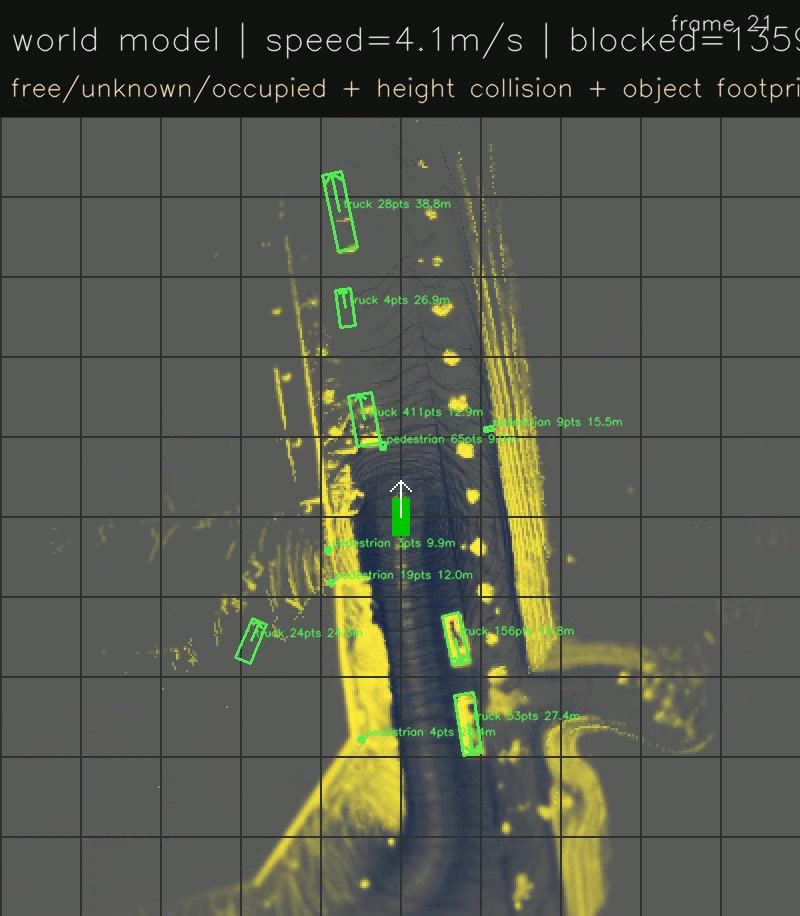
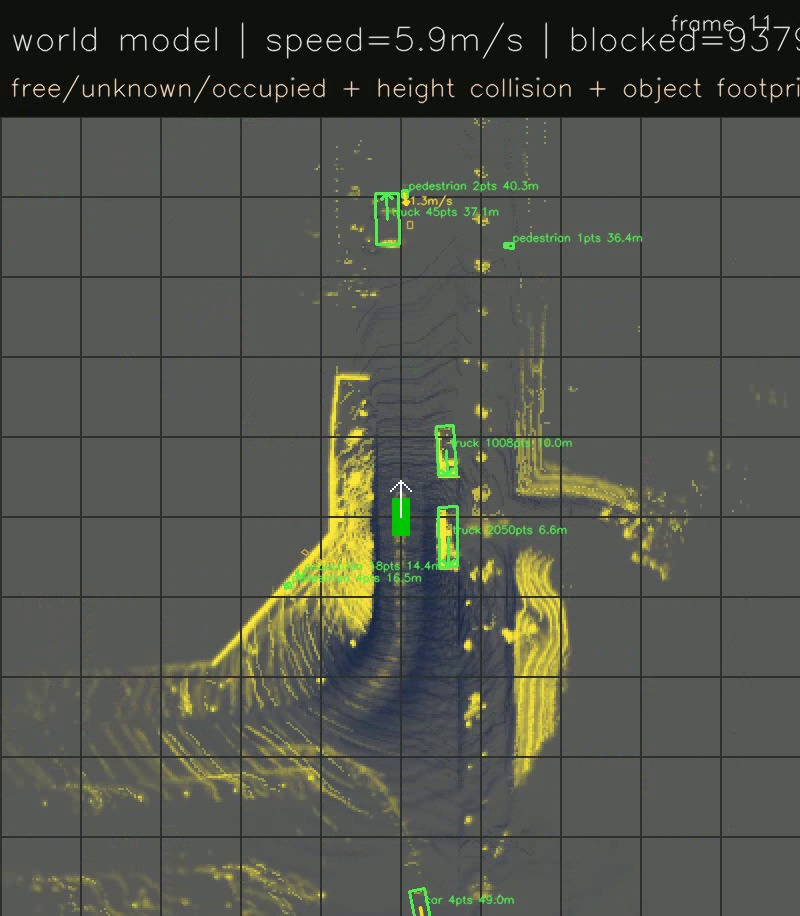
feat: GT-oracle object velocity + short-horizon prediction in world model

diff --git a/fsd/world_model.py b/fsd/world_model.py
@@ -10,8 +10,15 @@ from fsd.data import LidarFrame, SurroundFrame
 from fsd.motion_planning.ego_motion import estimate_ego_state
 from fsd.motion_planning.occupancy import build_collision_grid
 from fsd.motion_planning.state import EgoState
-from fsd.object_detection import Box3D, NuScenesAnnotationLoader, PredictionLoader, draw_boxes_on_bev
+from fsd.object_detection import (
+    Box3D,
+    NuScenesAnnotationLoader,
+    PredictionLoader,
+    draw_boxes_on_bev,
+    ego_xy_to_bev_pixels,
+)
 from fsd.occupancy import TemporalOccupancyMapper, render_occupancy_bev
+from fsd.tracking import GtVelocityTracker, TrackedObject
 
 
 @dataclass(frozen=True)
@@ -19,6 +26,10 @@ class WorldObject:
     box: Box3D
     distance_m: float
     footprint_ego: np.ndarray
+    track_id: str = ""
+    velocity_ego: np.ndarray | None = None
+    speed_mps: float = 0.0
+    future_xy_ego: np.ndarray | None = None
 
 
 @dataclass(frozen=True)
@@ -61,11 +72,13 @@ class WorldModelBuilder:
             y_range=self.config.y_range,
             resolution=self.config.resolution,
         )
+        self.gt_tracker = GtVelocityTracker()
         self._previous_pose = None
         self._previous_timestamp_us = None
 
     def reset(self) -> None:
         self.mapper.reset()
+        self.gt_tracker.reset()
         self._previous_pose = None
         self._previous_timestamp_us = None
 
@@ -98,6 +111,7 @@ class WorldModelBuilder:
         gt_boxes = []
         if self.annotation_loader is not None:
             gt_boxes = self.annotation_loader.boxes_for_frame(frame, self.config.min_lidar_points)
+        gt_tracked = self.gt_tracker.update(frame, gt_boxes)
         pred_boxes = []
         if self.prediction_loader is not None:
             pred_boxes = self.prediction_loader.boxes_for_frame(frame, self.config.score_threshold)
@@ -108,7 +122,7 @@ class WorldModelBuilder:
             occupancy_probability=occupancy,
             height_tensor=tensor,
             collision_grid=collision.blocked,
-            gt_objects=[_world_object(box) for box in gt_boxes],
+            gt_objects=[_tracked_world_object(t) for t in gt_tracked],
             pred_objects=[_world_object(box) for box in pred_boxes],
             x_range=self.config.x_range,
             y_range=self.config.y_range,
@@ -122,6 +136,51 @@ def _world_object(box: Box3D) -> WorldObject:
         distance_m=float(np.linalg.norm(box.center_ego[:2])),
         footprint_ego=box.corners_ego[:, :2].copy(),
     )
+
+
+def _tracked_world_object(tracked: TrackedObject) -> WorldObject:
+    box = tracked.box
+    return WorldObject(
+        box=box,
+        distance_m=float(np.linalg.norm(box.center_ego[:2])),
+        footprint_ego=box.corners_ego[:, :2].copy(),
+        track_id=tracked.track_id,
+        velocity_ego=tracked.velocity_ego,
+        speed_mps=tracked.speed_mps,
+        future_xy_ego=tracked.future_xy_ego,
+    )
+
+
+def _draw_object_motion(
+    image: np.ndarray,
+    objects: list[WorldObject],
+    x_range: tuple[float, float],
+    y_range: tuple[float, float],
+    resolution: float,
+    scale: int,
+    min_speed_mps: float = 0.5,
+) -> int:
+    """Overlay velocity arrows and a faded future ghost footprint. Returns moving count."""
+    moving = 0
+    for obj in objects:
+        if obj.velocity_ego is None or obj.speed_mps < min_speed_mps:
+            continue
+        moving += 1
+        center_xy = obj.box.center_ego[:2]
+        tip_xy = center_xy + obj.velocity_ego  # 1 s lookahead: arrow length == speed in metres
+        arrow = ego_xy_to_bev_pixels(
+            np.stack([center_xy, tip_xy]), x_range, y_range, resolution, scale=scale
+        )
+        cv2.arrowedLine(image, tuple(arrow[0]), tuple(arrow[1]), (40, 220, 255), 2, tipLength=0.3, line_type=cv2.LINE_AA)
+
+        if obj.future_xy_ego is not None and len(obj.future_xy_ego):
+            ghost = obj.footprint_ego + (obj.future_xy_ego[-1] - center_xy)
+            gp = ego_xy_to_bev_pixels(ghost, x_range, y_range, resolution, scale=scale)
+            cv2.polylines(image, [gp.reshape((-1, 1, 2))], True, (60, 180, 230), 1, cv2.LINE_AA)
+
+        label = f"{obj.speed_mps:.1f}m/s"
+        cv2.putText(image, label, (int(arrow[1][0]) + 3, int(arrow[1][1])), cv2.FONT_HERSHEY_SIMPLEX, 0.36, (40, 220, 255), 1, cv2.LINE_AA)
+    return moving
 
 
 def render_world_model_bev(model: BevWorldModel, scale: int = 2) -> np.ndarray:
@@ -154,10 +213,18 @@ def render_world_model_bev(model: BevWorldModel, scale: int = 2) -> np.ndarray:
         title="Pred objects",
         label_scores=True,
     )
+    moving = _draw_object_motion(
+        image,
+        model.gt_objects,
+        x_range=model.x_range,
+        y_range=model.y_range,
+        resolution=model.resolution,
+        scale=scale,
+    )
     blocked = int(model.collision_grid.sum())
     text = (
         f"world model | speed={model.ego.speed_mps:.1f}m/s | "
-        f"blocked={blocked} | gt={len(model.gt_objects)} | pred={len(model.pred_objects)}"
+        f"blocked={blocked} | gt={len(model.gt_objects)} | moving={moving} | pred={len(model.pred_objects)}"
     )
     cv2.rectangle(image, (0, 0), (image.shape[1], 58 * scale), (18, 18, 18), -1)
     cv2.putText(image, text, (10, 25 * scale), cv2.FONT_HERSHEY_SIMPLEX, 0.55 * scale, (245, 245, 245), 1, cv2.LINE_AA)

diff --git a/fsd/tracking.py b/fsd/tracking.py
@@ -1,0 +1,83 @@
+"""Ground-truth object velocity and short-horizon prediction from nuScenes instance tokens.
+
+GT-first oracle: matching objects across keyframes is free because every annotation
+carries a stable ``instance_token``, so velocity is just a finite difference of the
+same object's global position. Velocity is computed in the global frame (true ground
+motion) and rotated into the current ego frame; future positions are a constant-velocity
+extrapolation. This is the baseline a learned tracker is later validated against.
+"""
+
+from __future__ import annotations
+
+from dataclasses import dataclass
+
+import numpy as np
+
+from fsd.data import SurroundFrame
+from fsd.lidar_projection import quaternion_to_rotation_matrix, transform_points
+from fsd.object_detection import Box3D
+
+
+@dataclass(frozen=True)
+class TrackedObject:
+    box: Box3D
+    track_id: str
+    velocity_ego: np.ndarray   # (vx, vy) m/s, current ego frame
+    speed_mps: float
+    future_xy_ego: np.ndarray  # (K, 2) constant-velocity predicted centers, current ego frame
+
+
+class GtVelocityTracker:
+    """Finite-difference velocity over stable instance tokens, with constant-velocity prediction."""
+
+    def __init__(self, horizons_s: tuple[float, ...] = (1.0, 2.0, 3.0), min_speed_mps: float = 0.5):
+        self.horizons_s = horizons_s
+        self.min_speed_mps = min_speed_mps
+        self._prev: dict[str, tuple[np.ndarray, int]] = {}
+
+    def reset(self) -> None:
+        self._prev.clear()
+
+    def update(self, frame: SurroundFrame, boxes: list[Box3D]) -> list[TrackedObject]:
+        ego_pose = frame.ego_pose
+        rot_ego = quaternion_to_rotation_matrix(ego_pose["rotation"])[:2, :2]
+        ts = frame.timestamp_us
+
+        tracked: list[TrackedObject] = []
+        current: dict[str, tuple[np.ndarray, int]] = {}
+        for box in boxes:
+            token = box.instance_token
+            # Recover the object's global xy (exact inverse of how center_ego was built).
+            global_xy = transform_points(
+                box.center_ego.reshape(1, 3), ego_pose["rotation"], ego_pose["translation"]
+            )[0, :2]
+            if token:
+                current[token] = (global_xy, ts)
+
+            v_ego = np.zeros(2)
+            speed = 0.0
+            prev = self._prev.get(token) if token else None
+            if prev is not None:
+                prev_xy, prev_ts = prev
+                dt = (ts - prev_ts) / 1_000_000.0
+                if dt > 0.0:
+                    v_ego = rot_ego.T @ ((global_xy - prev_xy) / dt)
+                    speed = float(np.hypot(v_ego[0], v_ego[1]))
+
+            if speed >= self.min_speed_mps:
+                future = np.stack([box.center_ego[:2] + v_ego * h for h in self.horizons_s])
+            else:
+                future = np.empty((0, 2))
+
+            tracked.append(
+                TrackedObject(
+                    box=box,
+                    track_id=token,
+                    velocity_ego=v_ego,
+                    speed_mps=speed,
+                    future_xy_ego=future,
+                )
+            )
+
+        self._prev = current
+        return tracked

diff --git a/tests/test_tracking.py b/tests/test_tracking.py
@@ -1,0 +1,73 @@
+from pathlib import Path
+
+import numpy as np
+
+from fsd.data import CameraFrame, SurroundFrame
+from fsd.object_detection import Box3D, box_bottom_corners_ego
+from fsd.tracking import GtVelocityTracker
+
+
+def _frame(ego_translation, ego_rotation, timestamp_us):
+    pose = {"rotation": list(ego_rotation), "translation": list(ego_translation)}
+    cam = CameraFrame("CAM_FRONT", Path("x.jpg"), timestamp_us, "sd", {}, pose)
+    return SurroundFrame("scene", "scene-x", "sample", 0, timestamp_us, {"CAM_FRONT": cam})
+
+
+def _box(center_ego, token):
+    center_ego = np.asarray(center_ego, dtype=np.float64)
+    size = np.array([1.9, 4.6, 1.7])
+    return Box3D(
+        sample_token="s",
+        annotation_token="a",
+        class_name="car",
+        raw_category="vehicle.car",
+        center_ego=center_ego,
+        size=size,
+        yaw_ego=0.0,
+        corners_ego=box_bottom_corners_ego(center_ego, size, 0.0),
+        num_lidar_pts=10,
+        num_radar_pts=0,
+        instance_token=token,
+    )
+
+
+def test_constant_velocity_forward():
+    tracker = GtVelocityTracker(horizons_s=(1.0, 2.0, 3.0))
+    identity = [1.0, 0.0, 0.0, 0.0]
+
+    tracker.update(_frame([0.0, 0.0, 0.0], identity, 0), [_box([20.0, 2.0, 0.0], "obj")])
+    out = tracker.update(_frame([1.0, 0.0, 0.0], identity, 500_000), [_box([21.5, 2.0, 0.0], "obj")])
+
+    obj = out[0]
+    # object moved 2.5 m global in 0.5 s -> 5 m/s along ego +x
+    assert abs(obj.speed_mps - 5.0) < 1e-6
+    assert np.allclose(obj.velocity_ego, [5.0, 0.0], atol=1e-6)
+    assert obj.future_xy_ego.shape == (3, 2)
+    assert np.allclose(obj.future_xy_ego[1], [31.5, 2.0], atol=1e-6)  # 2 s horizon
+
+
+def test_velocity_rotates_into_ego_frame():
+    # ego yaw +90 deg (faces global +y); a global +x mover reads as ego -y motion.
+    tracker = GtVelocityTracker()
+    yaw90 = [np.cos(np.pi / 4), 0.0, 0.0, np.sin(np.pi / 4)]
+
+    tracker.update(_frame([0.0, 0.0, 0.0], yaw90, 0), [_box([10.0, 0.0, 0.0], "obj")])
+    out = tracker.update(_frame([0.0, 0.0, 0.0], yaw90, 500_000), [_box([10.0, -2.5, 0.0], "obj")])
+
+    assert np.allclose(out[0].velocity_ego, [0.0, -5.0], atol=1e-6)
+
+
+def test_first_sighting_has_zero_velocity():
+    tracker = GtVelocityTracker()
+    out = tracker.update(_frame([0.0, 0.0, 0.0], [1.0, 0.0, 0.0, 0.0], 0), [_box([5.0, 0.0, 0.0], "obj")])
+    assert out[0].speed_mps == 0.0
+    assert out[0].future_xy_ego.shape == (0, 2)
+
+
+def test_reset_clears_history():
+    tracker = GtVelocityTracker()
+    identity = [1.0, 0.0, 0.0, 0.0]
+    tracker.update(_frame([0.0, 0.0, 0.0], identity, 0), [_box([20.0, 0.0, 0.0], "obj")])
+    tracker.reset()
+    out = tracker.update(_frame([0.0, 0.0, 0.0], identity, 500_000), [_box([22.5, 0.0, 0.0], "obj")])
+    assert out[0].speed_mps == 0.0  # no carry-over across reset

diff --git a/fsd/object_detection.py b/fsd/object_detection.py
@@ -63,6 +63,7 @@ class Box3D:
     num_radar_pts: int
     score: float | None = None
     source: str = "gt"
+    instance_token: str = ""
 
 
 class NuScenesAnnotationLoader:
@@ -181,6 +182,7 @@ def annotation_to_ego_box(
         corners_ego=corners_ego,
         num_lidar_pts=int(annotation.get("num_lidar_pts", 0)),
         num_radar_pts=int(annotation.get("num_radar_pts", 0)),
+        instance_token=annotation.get("instance_token", ""),
     )
 
 

diff --git a/README.md b/README.md
@@ -70,7 +70,7 @@ nuScenes is organised as ~850 independent 20-second driving clips (called scenes
 | `planner_bev` | Offline LiDAR BEV planner: candidate trajectories, selected path, and collision context |
 | `planner_camera` | Front-camera overlay with selected path projected onto video and a compact BEV panel |
 | `height_bev` | 2.5D BEV tensor - per-cell point density and min/max/mean/range height channels |
-| `world_bev` | Unified BEV world model: occupancy, height/collision context, ego state, and object footprints |
+| `world_bev` | Unified BEV world model: occupancy, height/collision context, ego state, object footprints, and per-object velocity arrows + predicted motion |
 | `all` | All views rendered simultaneously |
 
 ### Camera-only BEV with Lift-Splat-Shoot
@@ -87,7 +87,11 @@ The plain BEV only knows "cell has points or not." The height tensor keeps the v
 
 ### Unified BEV world model
 
-The world model combines the separate BEV layers into one state object: temporal occupancy probability, 2.5D LiDAR height channels, collision cells, ego speed/state, and object footprints from GT boxes or detector predictions. This is the handoff point for later tracking, prediction, and planning. Implementation in [fsd/world_model.py](fsd/world_model.py).
+The world model combines the separate BEV layers into one state object: temporal occupancy probability, 2.5D LiDAR height channels, collision cells, ego speed/state, and object footprints from GT boxes or detector predictions. This is the handoff point between perception and planning. Implementation in [fsd/world_model.py](fsd/world_model.py).
+
+### Object velocity + short-horizon prediction
+
+Until now the world model only saw the present - "there is a car here". This layer gives objects motion: "that car is moving at 7 m/s and will be here in 2 s". We start with a ground-truth oracle because nuScenes annotations carry a stable `instance_token`, so matching the same object across keyframes is free and association error is zero - the right baseline to validate a learned tracker against later. For each object we recover its global position, finite-difference it across consecutive keyframes for true ground velocity, rotate that velocity into the current ego frame, and extrapolate at constant velocity to 1/2/3 s horizons. The `world_bev` view draws a cyan velocity arrow (1 s lookahead, so arrow length equals speed in metres), a faded future ghost footprint, and a per-object speed label. Verified on scene 0: the first keyframe shows zero velocity (no prior), and subsequent frames recover realistic 5-8 m/s vehicle speeds. Implementation in [fsd/tracking.py](fsd/tracking.py). Next: swap the `instance_token` oracle for greedy nearest-by-class association over CenterPoint predictions.
 
 ### Results
 
@@ -119,7 +123,7 @@ The world model combines the separate BEV layers into one state object: temporal
     </td>
     <td width="50%" align="center">
       <img src="results/nuscenes_world_bev.jpg" width="100%"><br>
-      <sub>Unified BEV world model - occupancy, collision context, ego state, and object footprints</sub>
+      <sub>Unified BEV world model - occupancy, collision context, ego state, object footprints, and per-object velocity (cyan arrows + m/s labels)</sub>
     </td>
   </tr>
   <tr>

diff --git a/plan.md b/plan.md
@@ -375,12 +375,12 @@ Run (in the mmdet3d env) → export ego-frame boxes to JSON, then view in the ma
 
 - [x] **Unified BEV world model shell**: `fsd/world_model.py` now combines temporal occupancy, 2.5D LiDAR height channels, ego state, collision grid, GT boxes, and optional prediction boxes into one `BevWorldModel`. Visualize with `--view world_bev`.
 
-- [ ] **Object velocity + prediction** (Priority 3): finite-difference velocity over `instance_token` across consecutive samples → `[x, y, vx, vy]`, then constant-velocity forward prediction. Optional Kalman smoothing if GT velocities look jittery.
+- [x] **Object velocity + prediction (GT oracle)** (Priority 3): `fsd/tracking.py` `GtVelocityTracker` finite-differences each object's global position over `instance_token` across keyframes, rotates the velocity into the current ego frame, and constant-velocity-extrapolates to 1/2/3 s. Wired into `BevWorldModel` (`WorldObject.velocity_ego/speed_mps/future_xy_ego`); `world_bev` draws cyan velocity arrows + faded future ghost footprints + speed labels. Validated on scene 0 (frame 0 = 0 m/s, then realistic 5-8 m/s). This is the oracle a learned tracker is checked against.
+- [ ] **Object velocity (predicted boxes)** (Priority 3): swap the `instance_token` oracle for greedy nearest-by-class association over CenterPoint predictions to get per-object `[x, y, vx, vy]`; validate the recovered velocities against the GT oracle above. Optional small Kalman smoother if jittery.
 - [ ] **Quantify LSS**: vehicle-seg IoU vs the GT BEV mask we already render (paper reports ~33).
 - [ ] **Lane topology** (Priority 2): lane centerlines + connectivity into a lane graph from the parsed HD map.
-- [ ] **Object velocity + prediction** (Priority 3): now unblocked by frustum-fusion detection. Match detections across keyframes (greedy nearest by class, or a small Kalman tracker) to get per-object `[x, y, vx, vy]`, then constant-velocity short-horizon prediction. No `instance_token` crutch — track our own detections.
 - [ ] **Run + eval the detector**: render `objects_bev`/`objects_cameras` once the drive is mounted; spot-check fusion boxes against GT boxes (eval-only) to gauge position error.
 - [ ] **Lane topology** (Priority 2): vision-first (YOLOPv2 lane lines → ego BEV via ground plane), not HD-map lanes.
 - [ ] **Planner** (Phase 2): classical/optimization trajectory planner over occupancy + height tensor + lanes + predicted objects. Deferred until the world model is complete enough to plan over.
 
-Object detection is done (camera frustum fusion). The dynamic branch's next step is tracking→velocity→prediction; the static side (occupancy, height, soon lanes) is in good shape.
+Object detection is done (camera frustum fusion). The dynamic branch now has GT-oracle velocity + short-horizon prediction; the next step is recovering the same from CenterPoint predictions (own-detection tracking). The static side (occupancy, height, soon lanes) is in good shape.
